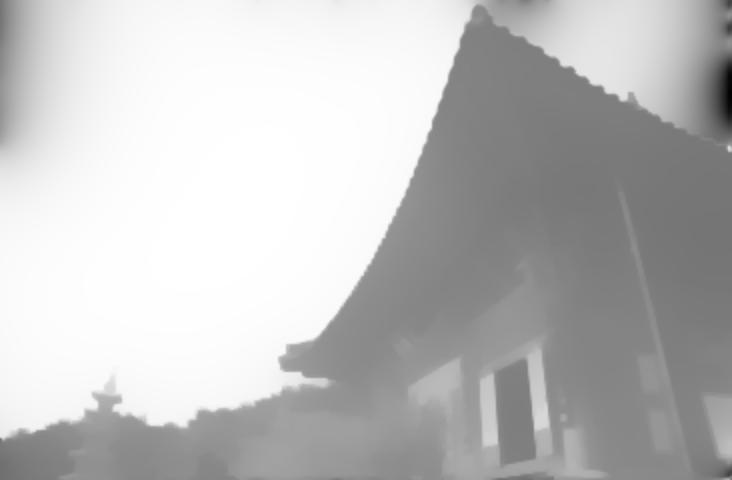
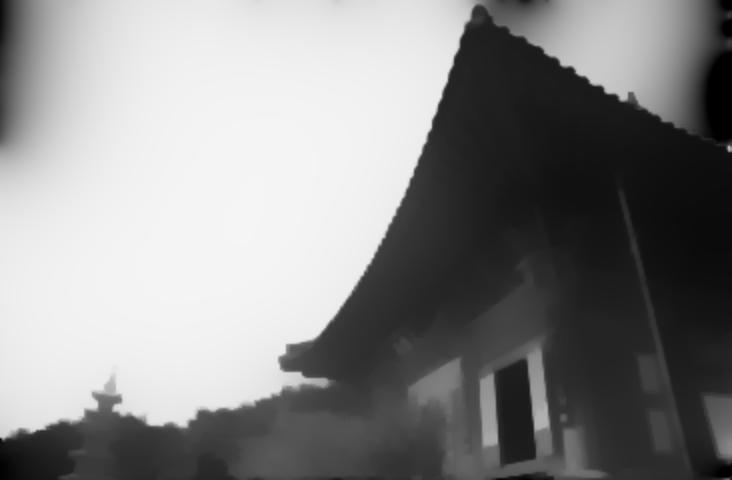
update crm.py and figs

diff --git a/crm.py b/crm.py
@@ -49,29 +49,6 @@ def cameraModel(im,k):
     return g
 
 
-def exposureMap(im,win,alpha,rMax,eps):
-    # init exposure map
-    t0 = np.max(im,axis=2)
-    H,W = t0.shape
-    # exposure map refinement
-    t0 = cv2.resize(t0,(int(W/2),int(H/2)))
-    dt0h = diffH(t0)
-    dt0w = diffW(t0)
-    kh = np.zeros((win,win))
-    kw = np.zeros((win,win))
-    kh[:,2] = 1
-    kw[2,:] = 1
-    gsh = cv2.filter2D(dt0h,-1,kh)
-    gsw = cv2.filter2D(dt0w,-1,kw)
-    Wh = 1./(abs(gsh)*abs(dt0h)+eps)
-    Ww = 1./(abs(gsw)*abs(dt0w)+eps)
-    T = solveLinearEquation(t0,Wh,Ww,alpha/2.)
-    T = cv2.resize(T,(W,H))
-    T = np.expand_dims(T,2).repeat(3,2)
-    kR = np.minimum(1./T,rMax)
-    return kR
-
-
 def solveLinearEquation(t0,Wh,Ww,alpha):
     H,W = t0.shape
     k = H*W
@@ -110,10 +87,33 @@ def solveLinearEquation(t0,Wh,Ww,alpha):
     D = 1-(dh+dw+dha+dwa)
     A = (Ah+Aw)+(Ah+Aw).T+sp.spdiags(D,[0],k,k)
     t0 = np.expand_dims(t0.flatten(),1).astype(np.float32)
-    tout = spsolve(A,t0)
-    out = np.reshape(tout,(H,W))
-    out = normValue(out)
+    tout = cg(A,t0,tol=0.001)
+    out = np.reshape(tout[0],(H,W))
+    out = np.minimum(1,np.maximum(0,out))
     return out
+
+
+def exposureMap(im,win,alpha,rMax,eps):
+    # init exposure map
+    t0 = np.max(im,axis=2)
+    H,W = t0.shape
+    # exposure map refinement
+    t0 = cv2.resize(t0,(int(W/2),int(H/2)))
+    dt0h = diffH(t0)
+    dt0w = diffW(t0)
+    kh = np.zeros((win,win))
+    kw = np.zeros((win,win))
+    kh[:,2] = 1
+    kw[2,:] = 1
+    gsh = cv2.filter2D(dt0h,-1,kh)
+    gsw = cv2.filter2D(dt0w,-1,kw)
+    Wh = 1./(abs(gsh)*abs(dt0h)+eps)
+    Ww = 1./(abs(gsw)*abs(dt0w)+eps)
+    T = solveLinearEquation(t0,Wh,Ww,alpha/2.)
+    T = cv2.resize(T,(W,H))
+    T = np.expand_dims(T,2).repeat(3,2)
+    kR = np.minimum(1./(T+eps),rMax)
+    return kR
 
 
 def CRM(src):
